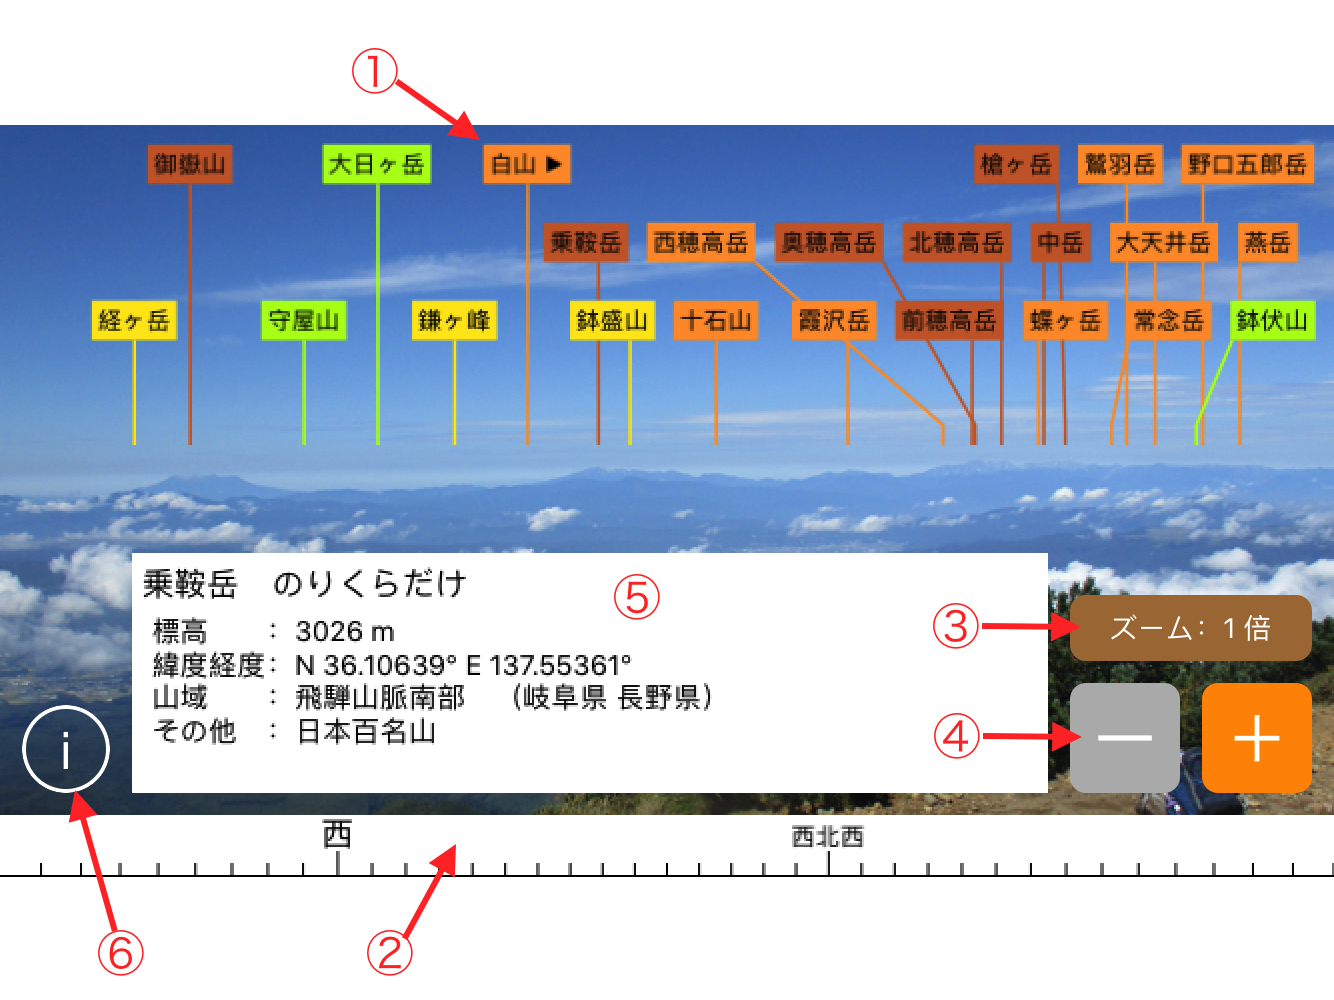
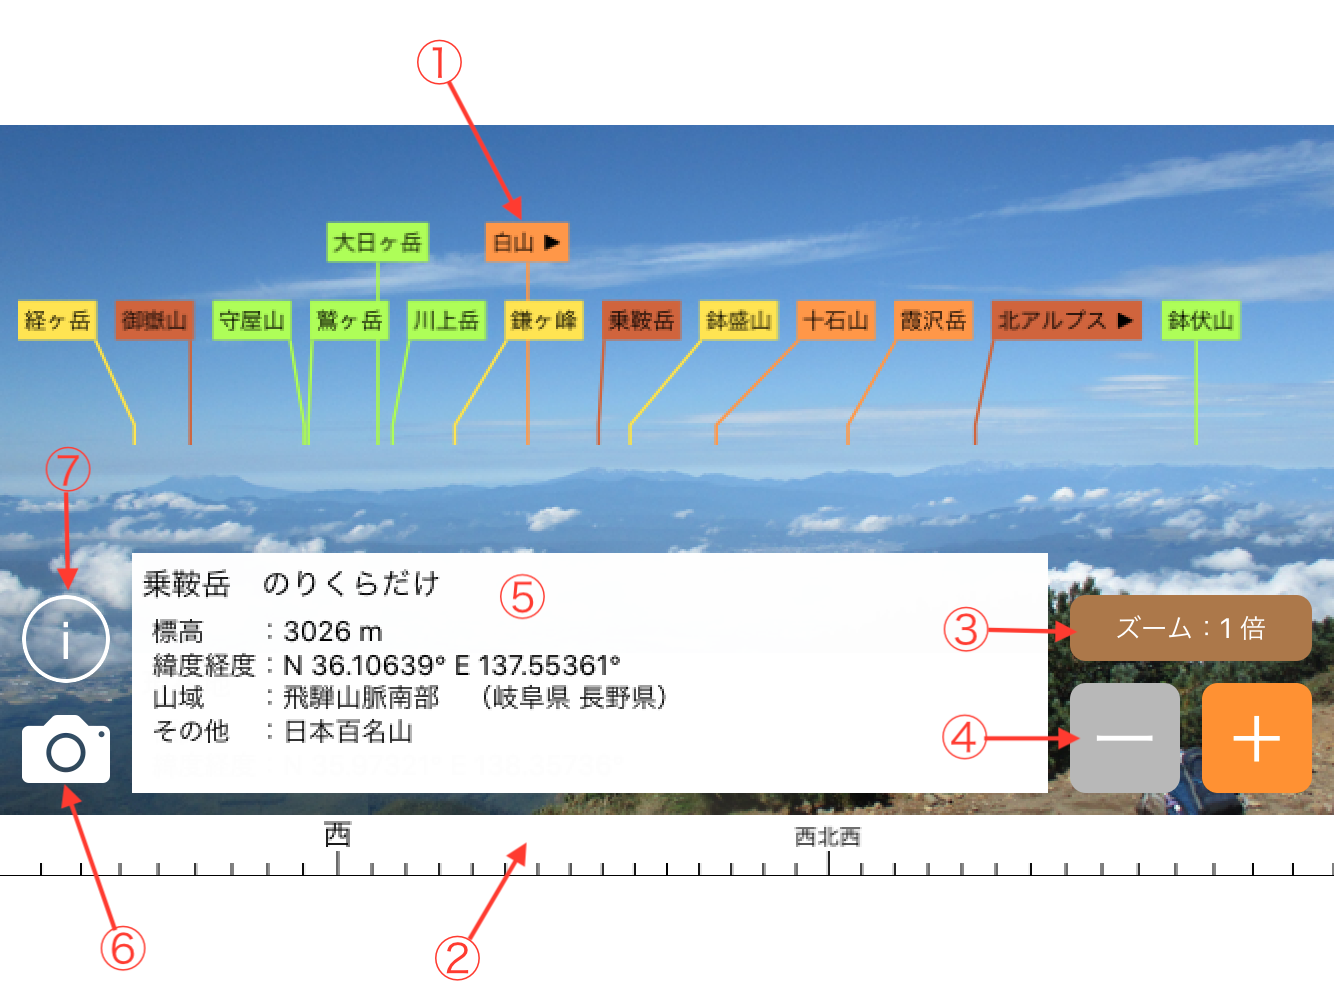
ヘルプの更新等

diff --git a/Landscape/SceneRenderer.swift b/Landscape/SceneRenderer.swift
@@ -320,33 +320,6 @@ class SceneRenderer: NSObject, CALayerDelegate {
     drawScene(with: ctx)
     let now = Date()
     Logger.log("> render : \(now.timeIntervalSince(start))s", now: now)
-//    ctx.saveGState()
-//    UIGraphicsPushContext(ctx)
-//    params.context = ctx
-//    let start = Date()
-//
-//    // シミュレータ上の場合、docフォルダーに所定の名称の画像があればそれを背景に表示する
-//    if isSimulator {
-//      let image = params.isPortrait ? simuImageV : simuImageH
-//      if let image = image {
-//        ctx.translateBy(x: 0.0, y: params.height)
-//        ctx.scaleBy(x: 1.0, y: -1.0)
-//        ctx.draw(image, in: CGRect(x:0, y:0, width: params.width, height: params.height))
-//        ctx.translateBy(x: 0.0, y: params.height)
-//        ctx.scaleBy(x: 1.0, y: -1.0)
-//      }
-//    }
-//
-//    // 方位の描画
-//    directionRenderer.draw(params: params)
-//
-//    // POIの描画
-//    poiRenderer.draw(params: params)
-//
-//    let now = Date()
-//    Logger.log("> render : \(now.timeIntervalSince(start))s", now: now)
-//    UIGraphicsPopContext()
-//    ctx.restoreGState()
   }
   
   func drawScene(with ctx: CGContext) {

diff --git a/Landscape/LocationManager.swift b/Landscape/LocationManager.swift
@@ -41,11 +41,11 @@ class LocationManager: NSObject, CLLocationManagerDelegate {
   var prevLocation = CLLocationCoordinate2D()
   
   // シミュレータ時の緯度経度高度
-//  // 八ヶ岳 阿弥陀が岳
-//  let simuLat = 35.973213
-//  let simuLng = 138.357356
-//  let simuAtt = 2780.0
-//  let simuHeadding = 285.0
+  // 八ヶ岳 阿弥陀が岳
+  let simuLat = 35.973213
+  let simuLng = 138.357356
+  let simuAtt = 2780.0
+  let simuHeadding = 285.0
 //  // 六本木ヒルズ
 //  let simuLat = 35.6605
 //  let simuLng = 139.729056
@@ -56,11 +56,11 @@ class LocationManager: NSObject, CLLocationManagerDelegate {
 //  let simuLng = 140.912650
 //  let simuAtt = 565.0
 //  let simuHeadding = 225.0
-  // 福島実家
-  let simuLat = 37.772621
-  let simuLng = 140.443796
-  let simuAtt = 86.0
-  let simuHeadding = 240.0
+  // 福島
+//  let simuLat = 37.772621
+//  let simuLng = 140.443796
+//  let simuAtt = 86.0
+//  let simuHeadding = 240.0
 //  // 弘前城から八甲田
 //  let simuLat = 40.607781
 //  let simuLng = 140.463317

diff --git a/www/view.html b/www/view.html
@@ -21,7 +21,9 @@
         ボタンの上にはその項目の値が表示されます。</li>
       <li><span>&#9315;</span>＋ーボタン：上のボタンで選択されている項目の値を調整します。</li>
       <li><span>&#9316;</span>情報ボックス：山や建物の情報が表示されます。</li>
-      <li><span>&#9317;</span>ヘルプボタン：この画面を表示します。</li>
+      <li><span>&#9317;</span>カメラボタン：画面に表示されている内容を画像に保存します。<br />
+      　保存された画像は、「写真」アプリで見ることが出来ます。</li>
+      <li><span>&#9318;</span>ヘルプボタン：この画面を表示します。</li>
     </ol>
   </div>
   <div class="pager">

diff --git a/www/index.html b/www/index.html
@@ -21,7 +21,7 @@
   <div class="reference">
     <h3>出典</h3>
     <hr />
-    <p>山や建物の見えるかどうかの判定に、国土地理院長の承認 (承認番号 平29情使、 第82号) を得て
+    <p>山や建物の見えるかどうかの判定に、国土地理院長の承認 (承認番号 平30情使、 第196号) を得て
       同院発行の基盤地図情報を元に作成した地盤面標高データを使用しています。</p>
     <p>地物の情報は、以下のようなサイトの情報を参考に作成しています。</p>
     <ul>

diff --git a/Landscape/CameraManager.swift b/Landscape/CameraManager.swift
@@ -259,8 +259,8 @@ class CameraManager: NSObject, AVCaptureVideoDataOutputSampleBufferDelegate {
   func captureOutput(_ output: AVCaptureOutput, didOutput sampleBuffer: CMSampleBuffer, from connection: AVCaptureConnection) {
     if takesSnapshot {
       if snapshotHandler != nil {
-        if let image = imageFromSampleBuffer(sampleBuffer:
-          sampleBuffer) {
+        if let image = imageFromSampleBuffer(sampleBuffer: sampleBuffer) {
+          AudioServicesPlaySystemSound(1108)
           snapshotHandler!(image)
         }
       }
